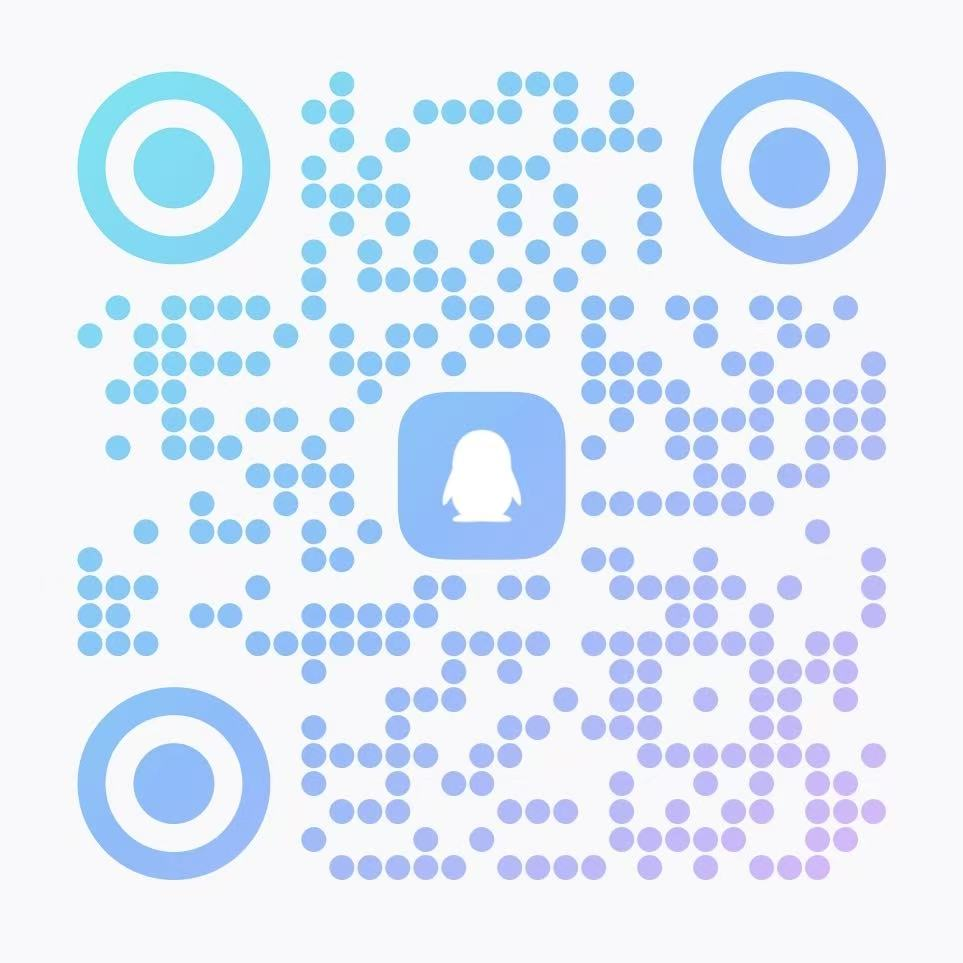
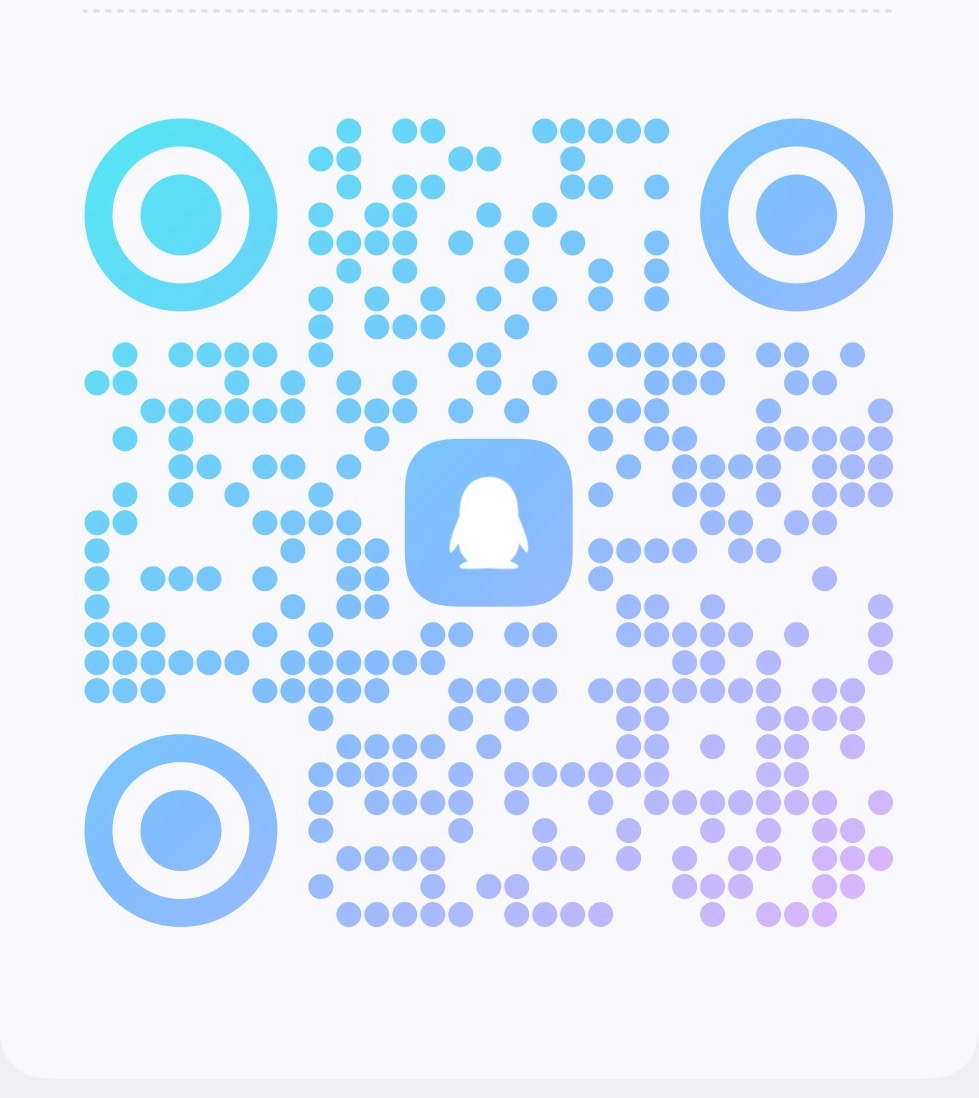
sync: README 与群二维码图片对齐公共仓库三群版（主群/备用1/备用2 + qq-group-2.jpg）

diff --git a/README.md b/README.md
@@ -6,17 +6,14 @@
 
 - 完全离线运行，只保留向本仓库 GitHub 接口查询新版本
 - 内置简体中文 YimMenuV2 增强版菜单：百余项增强功能、30+ 类脚本事件防护、全量中文化
-- 传承版支持恢复：内置社区维护版 YimMenu（适配传承版 1.73 b3889，离线注入）；玩法脚本已全量汉化（UM V3 740+ 条文案）；首次注入自动补齐，默认呼出键 F7
-- 新增「注入成功」启动动画（8 秒加长版、主字加大）：传承版 / 增强版同款，传承版随脚本包一键安装
-- 新增「环境自检」+「反馈包」：主页一键体检（游戏 / FSL / 脚本 / 模式 / 呼出键），支持一键修复、一键打包日志配置发群求助；注入引导防呆（点错卡片 / 未开游戏 / BE 状态均有准确提示）
-- 增强版菜单升级 2.1.40：F7 默认呼出键（可自定义）；修复「呼出菜单后鼠标锁屏幕中心」；佩里科岛前置 / 终章一键跳过
-- 新增「一键卸载」：一键清空配置 / 缓存 / 日志 / 菜单文件（保留 FSL 本地存档），按提示删除程序即可
-- 新增「玩法指南」专章 + 传承版一键脚本包（Ultimate Menu V3）：前置跳过 / 刷等级 / 刷钱
-- 玩法增强二轮：夜总会自动化收益循环、赃车店槽位配置、科兹中心「秒过」研发工具
-- 新增「打赏支持」：顶部导航 / 首页 / 每日弹窗 / 联系窗口 / 关于页入口（完全自愿，不影响免费使用）
 - 内置 FSL V6，一键离线安装
 - 教程式界面与《关于 / 使用说明》弹窗，顶部导航带“联系”按钮
 - 免安装单文件 exe，已内置 .NET 运行时，换电脑直接跑
+
+## 版本说明
+
+本程序目前**只针对 GTA5 增强版（Enhanced）进行优化开发**。
+**传承版（Legacy）已失去维护**——其内容的实用性以及安全性由用户自行检测，我们不再过多赘述。
 
 ## 下载
 
@@ -27,9 +24,9 @@
 ## 三步使用
 
 1. **关闭反作弊**：Rockstar 启动器 → 设置 → 我的已安装游戏 → Grand Theft Auto V Enhanced → 取消勾选 **BattlEye**
-   （Steam 启动项加 `-nobattleye` 更稳）
-2. **装 FSL**：程序 `YimMenu` 页 → `FSL管理` → 点 **安装FSL-Steam**（使用内置 FSL V6，离线安装）
-3. **注入菜单**：游戏进到 **主菜单** → `YimMenu` 页 → 点 **内嵌版** → 游戏里按 `F7`（默认，可在菜单 设置→热键 自定义；备用 `Ctrl+\`）呼出中文菜单
+   （Steam：启动项加 `-nobattleye`；**Epic 平台**：用程序内 FSL 管理里的「无BE模式启动游戏」或生成的桌面快捷方式）
+2. **装 FSL**：程序 `YimMenu` 页 → `FSL管理` → 点 **一键安装FSL（自动检测）**（自动识别 Steam / Epic 与增强版 / 传承版；内置 FSL V6，离线安装）
+3. **注入菜单**：游戏进到 **主菜单** → `YimMenu` 页 → 点 **内嵌版** → 游戏里按 `INSERT`（或 `Ctrl+\`）呼出中文菜单
 
 ## 更新检测
 
@@ -39,25 +36,32 @@
 
 ## 交流反馈
 
-QQ 交流群（进满较快，**仅提供群号搜索加入**；已满的群请勿尝试）：
+使用问题、反馈建议、更新通知都在群里；**主群与备用 1 群均已满员，请直接加「备用 2 群」**：
 
-| 群 | 群号 | 状态 |
-| --- | --- | --- |
-| 主群 | **472770575** | 已满 |
-| 备用1 | **1121769473** | 已满 |
-| 备用2 | **1129626000** | 新群 · 推荐加入 |
+<table>
+  <tr>
+    <th align="center">主群（已满）</th>
+    <th align="center">备用 1 群（已满）</th>
+    <th align="center">备用 2 群（新群 · 推荐加入）</th>
+  </tr>
+  <tr>
+    <td align="center"><b>472770575</b><br /><img src="qq-group.jpg" alt="主群二维码" width="200" /></td>
+    <td align="center"><b>1121769473</b><br /><img src="qq-group-backup.jpg" alt="备用 1 群二维码" width="200" /></td>
+    <td align="center"><b>1129626000</b><br /><img src="qq-group-2.jpg" alt="备用 2 群二维码" width="200" /></td>
+  </tr>
+</table>
 
-加群方法：手机 QQ → 右上角「+」→「加好友/群」→ 输入群号搜索。使用问题、反馈建议、更新通知都在群里。
-
-扫码加入备用2群（1129626000）：
-
-![QQ 群 1129626000（备用2）](qq-group.jpg)
+（群进满速度很快；也可以直接用群号搜索加群，已满的群无需尝试。）
 
 **防诈骗提醒**：本项目完全免费、公益性质。如果你遇到收费，那就是被骗了，请务必联系卖软件给你的那个人退款；官方发布渠道只有本仓库的 Releases 页面。
+
+## 参与贡献
+
+- 欢迎有能力的开发者**一起参与共同开发**——提交 Pull Request 或 Issue 都欢迎；
+- 如果你只是路过，也欢迎**顺手点一个 Star** 支持一下，这对我们是最大的鼓励。
 
 ## 许可
 
 - 原项目：MIT License（原作者 CrazyZhang / sch-lda，详见同目录发行说明）
 - 内置的 YimMenuV2 中文版 DLL：基于 GPL-2.0 源码编译
-- 内置传承版 YimMenu DLL：来自 Mr-X-GTA/YimMenu（GPL-2.0 开源，源码公开）
 - 内置 FSL V6：来自 UnknownCheats 帖子 616977（作者发布）
